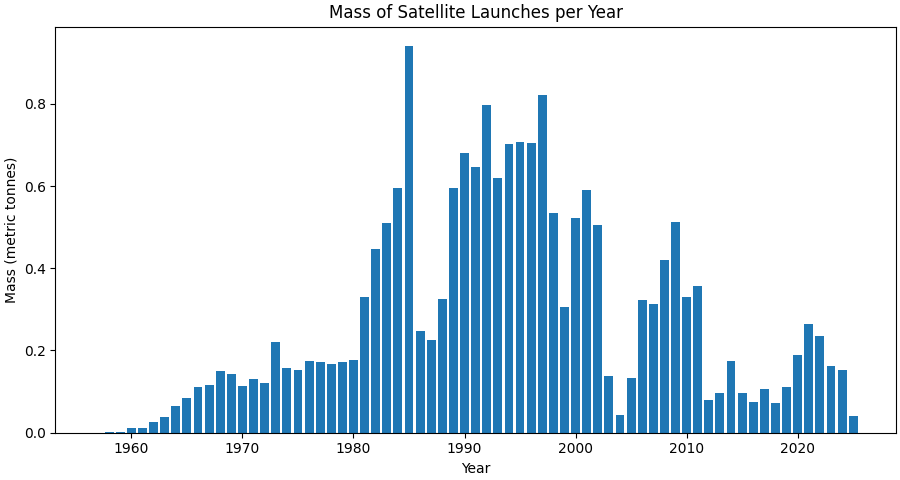
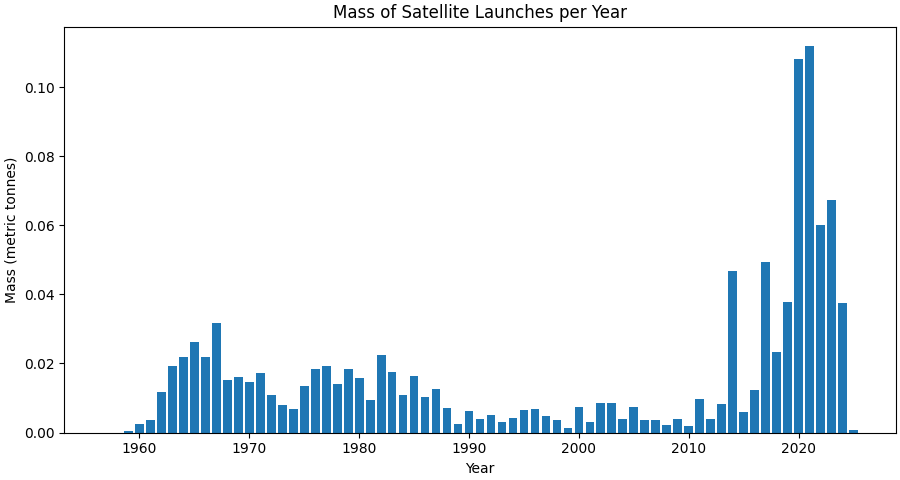
revamping year mass plots :(((((((

diff --git a/src/create_year_mass_reentry_plots.py b/src/create_year_mass_reentry_plots.py
@@ -6,168 +6,6 @@ from matplotlib.ticker import ScalarFormatter
 from special_tools import *
 from matplotlib import dates as mdates
 
-end_of_may = datetime.date(2025, 5, 31)
-
-class satellite_mass_lifetime:
-    def __init__(self, row):
-        self.id = int(row[0])
-        self.name = row[1]
-        self.launch_date = datetime.datetime.strptime(row[2], "%Y-%m-%d").date()
-        self.reentry_date = datetime.datetime.strptime(row[3], "%Y-%m-%d").date()
-        self.mass = float(row[4])
-        if row[5] != 'None':
-            self.altitude = float(row[5])
-        else:
-            self.altitude = None
-        self.lifetime = self.reentry_date - self.launch_date
-
-    # getters
-    def get_id(self):
-        return self.id
-    def get_name(self):
-        return self.name
-    def get_launch_date(self):
-        return self.launch_date
-    def get_reentry_date(self):
-        return self.reentry_date
-    def get_mass(self):
-        return self.mass
-    def get_altitude(self):
-        return self.altitude
-    def get_lifetime(self):
-        return self.lifetime
-
-
-def get_satellite_list(start_year, end_year):
-    satellite_list = []
-    with open("../data/all_reentries_info.csv", "r") as file:
-        reader = csv.reader(file)
-        # pass over headers
-        next(reader)
-        for row in reader:
-            satellite = satellite_mass_lifetime(row)
-            # make sure within year specification
-            if satellite.get_launch_date() is not None and satellite.get_launch_date() <= end_of_may:
-                if start_year <= satellite.get_launch_date().year <= end_year:
-                    satellite_list.append(satellite)
-
-    return satellite_list
-
-def get_starlink_list(start_year, end_year):
-    satellite_list = []
-    with open("../data/all_reentries_info.csv", "r") as file:
-        reader = csv.reader(file)
-        # pass over headers
-        next(reader)
-        for row in reader:
-            satellite = satellite_mass_lifetime(row)
-            # make sure within year specification
-            if satellite.get_launch_date() is not None and satellite.get_launch_date() <= end_of_may:
-                if start_year <= satellite.get_launch_date().year <= end_year:
-                    # check satellite is starlink
-                    if "STARLINK" in satellite.get_name():
-                        satellite_list.append(satellite)
-    return satellite_list
-
-def get_not_starlink_list(start_year, end_year):
-    satellite_list = []
-    with open("../data/all_reentries_info.csv", "r") as file:
-        reader = csv.reader(file)
-        # pass over headers
-        next(reader)
-        for row in reader:
-            satellite = satellite_mass_lifetime(row)
-            # make sure within year specification
-            if satellite.get_launch_date() is not None and satellite.get_launch_date() <= end_of_may:
-                if start_year <= satellite.get_launch_date().year <= end_year:
-                    # check satellite is not starlink
-                    if "STARLINK" not in satellite.get_name():
-                        satellite_list.append(satellite)
-    return satellite_list
-
-def get_year_dict(start_year, end_year):
-    year_list = []
-    for x in range(end_year - start_year + 1):
-        year_list.append(start_year + x)
-    year_nums = dict()
-    for year in year_list:
-        year_nums[year] = 0
-    return year_nums
-
-
-
-def fill_year_dict_sat_nums(satellite_list, start_year, end_year):
-    year_nums = get_year_dict(start_year, end_year)
-
-    for satellite in satellite_list:
-        if satellite.get_launch_date() is not None:
-            launch_year = int(satellite.get_launch_date().year)
-            # if no reentry, assume satellite is still orbiting
-            if satellite.get_reentry_date() is None or satellite.get_reentry_date().year >= end_year:
-                reentry_year = end_year
-            else:
-                reentry_year = int(satellite.get_reentry_date().year)
-
-            for x in range(reentry_year - launch_year + 1):
-                year_nums[launch_year + x] += 1
-
-    sat_nums = year_nums.values()
-    sat_years = year_nums.keys()
-    return sat_nums, sat_years
-
-def fill_year_dict_launch_nums(satellite_list, start_year, end_year):
-    year_nums = get_year_dict(start_year, end_year)
-
-    # fill with num satellites
-    for satellite in satellite_list:
-        if satellite.get_launch_date() is not None and satellite.get_launch_date() <= datetime.date.today():
-            launch_year = int(satellite.get_launch_date().year)
-            year_nums[launch_year] += 1
-
-    nums_list = year_nums.values()
-    year_list = year_nums.keys()
-
-    return nums_list, year_list
-
-def fill_year_dict_reentry_nums(satellite_list, start_year, end_year):
-    year_nums = get_year_dict(start_year, end_year)
-
-    # fill with num satellites
-    count_reentries = 0
-    for satellite in satellite_list:
-        if satellite.get_reentry_date() is not None and satellite.get_reentry_date() <= datetime.date(2025, 5, 31):
-            reentry_year = int(satellite.get_reentry_date().year)
-            year_nums[reentry_year] += 1
-            count_reentries += 1
-
-    nums_list = year_nums.values()
-    print(count_reentries)
-    year_list = year_nums.keys()
-
-    return nums_list, year_list
-
-# fills with lifetime
-def fill_year_dict_mass_nums(satellite_list, start_year, end_year):
-    year_masses = get_year_dict(start_year, end_year)
-
-    # fill with mass
-    for satellite in satellite_list:
-        if satellite.get_mass() is not None and satellite.get_launch_date() is not None and satellite.get_launch_date() <= end_of_may:
-            mass = satellite.get_mass() / 1_000_000
-            launch_year = int(satellite.get_launch_date().year)
-            # if no reentry, assume satellite is still orbiting
-            if satellite.get_reentry_date() is None or satellite.get_reentry_date().year > end_year:
-                reentry_year = end_year
-            else:
-                reentry_year = int(satellite.get_reentry_date().year)
-
-            for x in range(reentry_year - launch_year + 1):
-                year_masses[launch_year + x] += mass
-
-    mass_list = year_masses.values()
-    year_list = year_masses.keys()
-    return mass_list, year_list
-
 def plot_stacked_reentries_time(start_year, end_year):
     other_list = get_not_starlink_list(start_year, end_year)
     starlink_list = get_starlink_list(start_year, end_year)
@@ -390,13 +228,13 @@ def plot_stacked_mass_in_space_f10(start_year, end_year):
     plot.savefig('../data/mass_graphs/stacked_mass_in_space_f10.png', format='png')
 
 if __name__ == '__main__':
-    '''plot_stacked_launches_per_year(1957, 2025)
+    plot_stacked_launches_per_year(1957, 2025)
     plot_stacked_satellites_in_space(1957, 2025)
-    plot_stacked_satellites_in_space_f10(2015, 2025)
+    plot_stacked_satellites_in_space_f10(1957, 2025)
     plot_stacked_mass_in_space(1957, 2025)
     plot_stacked_mass_in_space_f10(1957, 2025)
     plot_f10_starlink_reentries_time(datetime.date(2020, 1, 1), datetime.date(2025, 5, 31))
-    plot_stacked_reentries_time(1957, 2025)'''
+    plot_stacked_reentries_time(1957, 2025)
     plot_mass_launched_per_year(1957, 2025)
 
 

diff --git a/src/create_mass_lifetime_plots.py b/src/create_mass_lifetime_plots.py
@@ -6,7 +6,7 @@ from csv import reader
 from colormaps import *
 
 def plot_altitude_mass_lifetime(start_year, end_year):
-    with open("../data/all_satellite_info.csv", 'r') as file:
+    with open("../data/all_reentries_info.csv", 'r') as file:
         csv_reader = reader(file)
         # pass over headers
         next(csv_reader)
